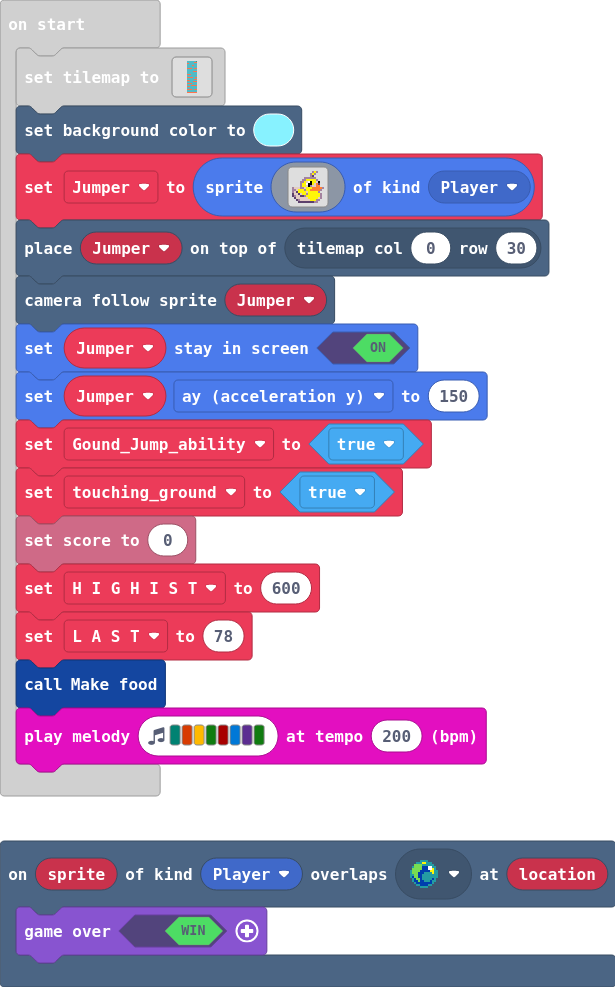
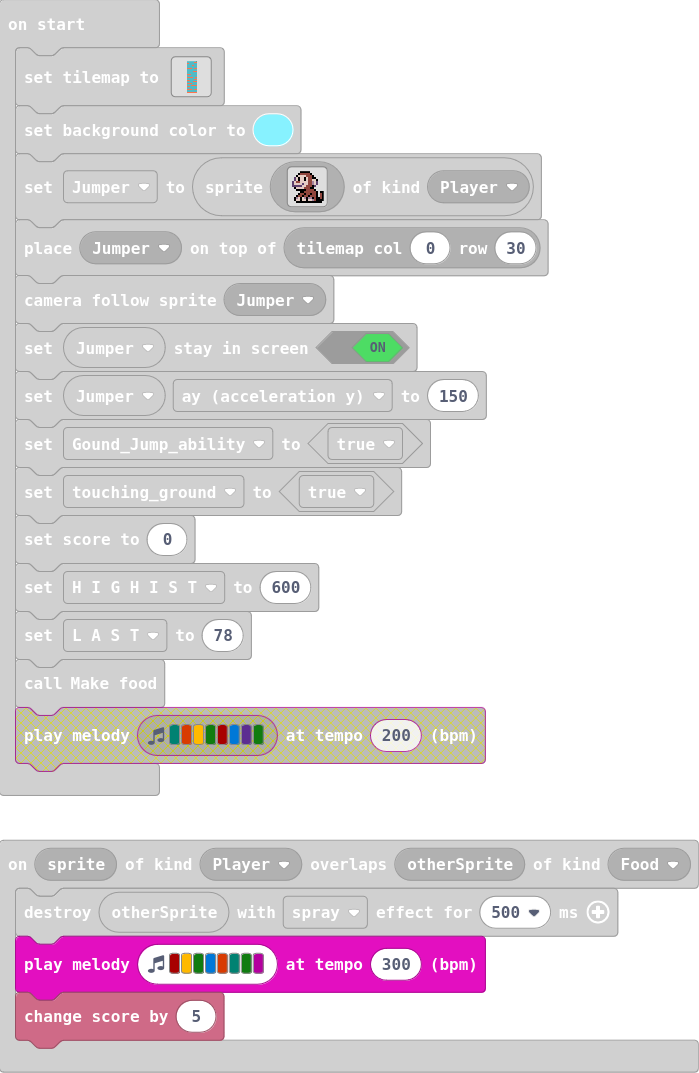
changed player

diff --git a/images.g.ts b/images.g.ts
@@ -43,22 +43,22 @@ c e e 2 2 2 2 2 2 2 2 2 2 4 2 e
 `;
             case "B5s#mf0==FO;C@(@R%x;":
             case "Ducky":return img`
-. . . . . . . . . . b 5 b . . . 
-. . . . . . . . . b 5 b . . . . 
-. . . . . . . . . b c . . . . . 
-. . . . . . b b b b b b . . . . 
-. . . . . b b 5 5 5 5 5 b . . . 
-. . . . b b 5 d 1 f 5 5 d f . . 
-. . . . b 5 5 1 f f 5 d 4 c . . 
-. . . . b 5 5 d f b d d 4 4 . . 
-b d d d b b d 5 5 5 4 4 4 4 4 b 
-b b d 5 5 5 b 5 5 4 4 4 4 4 b . 
-b d c 5 5 5 5 d 5 5 5 5 5 b . . 
-c d d c d 5 5 b 5 5 5 5 5 5 b . 
-c b d d c c b 5 5 5 5 5 5 5 b . 
-. c d d d d d d 5 5 5 5 5 d b . 
-. . c b d d d d d 5 5 5 b b . . 
-. . . c c c c c c c c b b . . . 
+. . . . f f f f f . . . . . . . 
+. . . f e e e e e f . . . . . . 
+. . f d d d d e e e f . . . . . 
+. c d f d d f d e e f f . . . . 
+. c d f d d f d e e d d f . . . 
+c d e e d d d d e e b d c . . . 
+c d d d d c d d e e b d c . . . 
+c c c c c d d e e e f c . . . . 
+. f d d d d e e e f f . . . . . 
+. . f f f f f e e e e f . . . . 
+. . . . f f e e e e e e f . f f 
+. . . f e e f e e f e e f . e f 
+. . f e e f e e f e e e f . e f 
+. f b d f d b f b b f e f f e f 
+. f d d f d d f d d b e f f f f 
+. . f f f f f f f f f f f f f . 
 `;
         }
         return null;

diff --git a/main.ts b/main.ts
@@ -29,6 +29,7 @@ scene.onOverlapTile(SpriteKind.Player, sprites.dungeon.collectibleBlueCrystal, f
 })
 sprites.onOverlap(SpriteKind.Player, SpriteKind.Food, function (sprite, otherSprite) {
     otherSprite.destroy()
+    music.playMelody("C5 A G E B F G C ", 300)
     info.changeScoreBy(5)
 })
 let CRAZY: Sprite = null
@@ -50,7 +51,6 @@ info.setScore(0)
 H_I_G_H_I_S_T = 600
 L_A_S_T = 78
 Make_food()
-music.playMelody("F B A G C5 E D G ", 200)
 game.onUpdate(function () {
     Jumper.x += controller.dx()
 })
